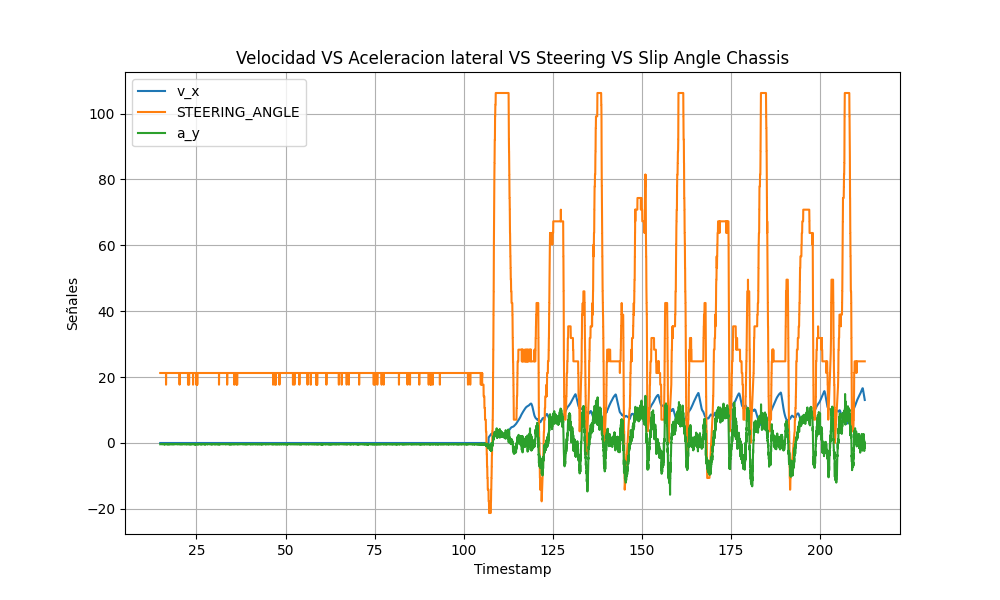
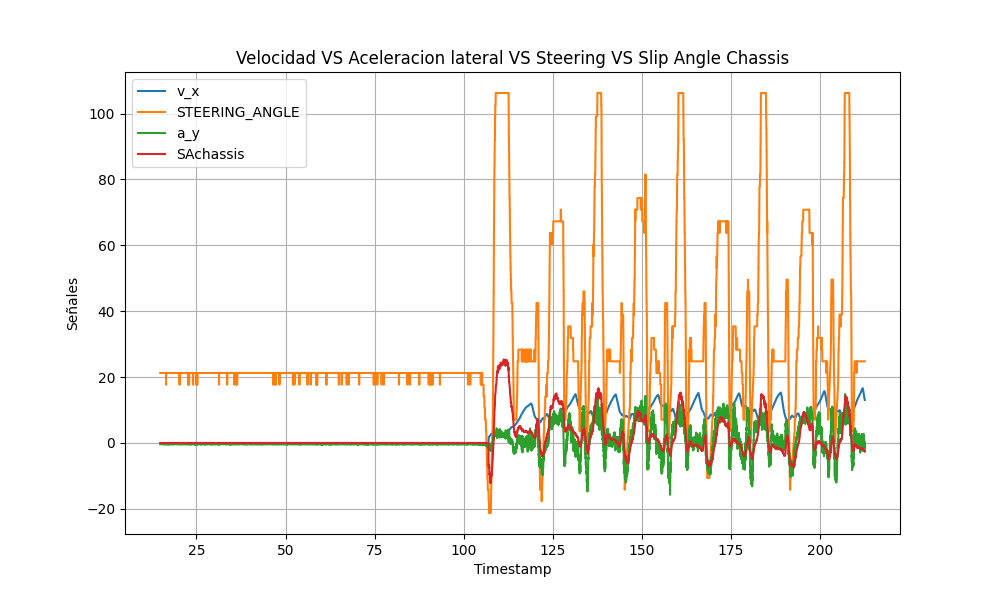
SAchassis

diff --git a/DECODER_SUSPEN_V1.py b/DECODER_SUSPEN_V1.py
@@ -345,12 +345,24 @@ class Signal:
         for signal in all_signals:
             df[signal] = df[signal].interpolate(method='linear', limit_direction='both')
         
+        
+        #CACULAR ANGULO STEERING
         if 'ANGLE' in df.columns:
             df['STEERING_ANGLE'] = (df['ANGLE'] * 360) / 101.65
             print("✅ Nueva columna agregada: 'STEERING_ANGLE'")
             print(df[['ANGLE', 'STEERING_ANGLE']].head())  # Verifica que los valores se están generando correctamente
         else:
             print("⚠ La columna 'ANGLE' NO fue encontrada en el DataFrame.")
+
+        #CALCULAR SA CHASSIS
+        if "v_x" not in df.columns or "v_y" not in df.columns:
+            print("⚠ 'v_x' o 'v_y' no están en el DataFrame.")
+
+        else: 
+            df["SAchassis"] = np.degrees(np.arctan2(df["v_y"], df["v_x"]))  # Usa arctan2 para evitar divisiones por 0
+            print("✅ Nueva columna agregada: 'SAchassis'")
+            print(df[['v_x','v_y', 'SAchassis']].head())  # Verifica que los valores se están generando correctamente
+        
 
         #Graficar Roll Gradient
         plot_file_rollgradient = None

diff --git a/DECODER_SUSPEN_V2.py b/DECODER_SUSPEN_V2.py
@@ -36,7 +36,8 @@ class Signal:
             '*': 1,
             '/': 1
         }
-         # 📌 Cargar la tabla de referencia desde "CALCULO ROLL.xlsx"
+        
+        # 📌 Cargar la tabla de referencia desde "CALCULO ROLL.xlsx"
         try:
             self.xlsx_data = pd.read_excel("CALCULO ROLL.xlsx", sheet_name=0)
             self.CLCULOROLL1_x = self.xlsx_data.iloc[:, 1].values  # Segunda columna: desplazamiento de referencia
